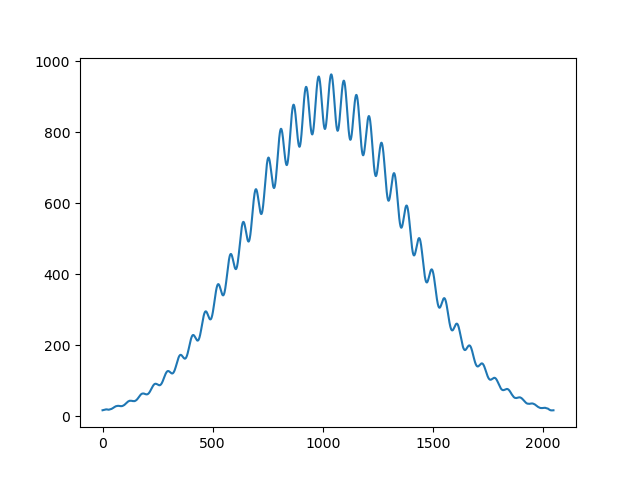
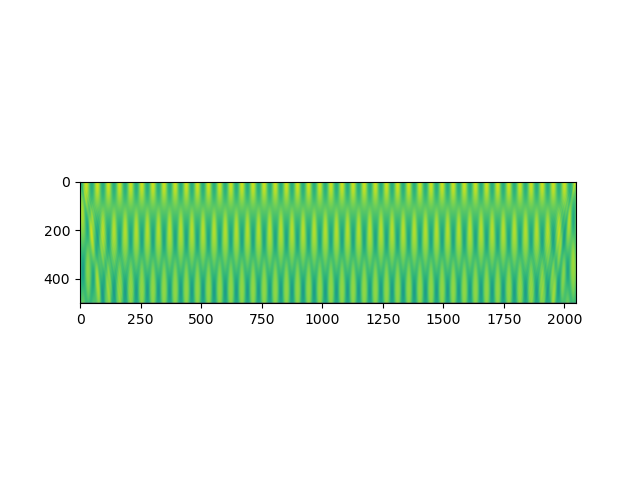
Callbacks in Bogoliubov for getting time evolution of wavepacket

diff --git a/raul/Bogoliubov.py b/raul/Bogoliubov.py
@@ -1,4 +1,5 @@
 import numpy as np
+from scipy.constants import c, epsilon_0
 import matplotlib.pyplot as plt
 from NLSE import NLSE
 
@@ -7,16 +8,18 @@ PRECISION_REAL = np.float32
 
 
 N = 2048
-n2 = -1.6e-9
+n2 = -1.6e-19
 waist = 2.23e-3
 waist2 = 70e-6
 window = 4 * waist
-puiss = 0.01
+puiss = 1.05
 Isat = 10e4  # saturation intensity in W/m^2
-L = 10e-3
-alpha = 20
-k_p = 2*np.pi/(5e-4) # perturbation k for measuring Bogoliubov dispersion
+L = 50e-3
+alpha = 2
+k_p = 2*np.pi/(4e-4) # perturbation k for measuring Bogoliubov dispersion
 amp_p = 0.1 #amplitude of perturbation
+
+
 
 
 def main():
@@ -32,17 +35,45 @@ def main():
         Isat=Isat,
         backend="GPU",
     )
-    simu.delta_z = 0.5e-4
-    E_0 = (np.exp(-(simu.XX**2 + simu.YY**2) / waist**2)*(1 + amp_p*np.sin(2*k_p*simu.XX))).astype(
+    simu.delta_z = 0.1e-4
+    #np.exp(-(simu.XX**2 + simu.YY**2) / waist**2)*
+    E_0 = ((1 + amp_p*np.sin(2*k_p*simu.XX))).astype(
         PRECISION_COMPLEX
     )
     #simu.V = -1e-4 * np.exp(-(simu.XX**2 + simu.YY**2) / waist2**2).astype(
     #    PRECISION_COMPLEX
     #)
-    A_plot = simu.out_field(E_0, L, verbose=True, plot=True, precision="single")
+
+    # parameters for callback
+    N_samples = 500
+    z_samples = np.zeros(N_samples+1) # +1 to account for the 0th step
+    E_samples = np.zeros((N_samples+1, N, N), dtype=np.complex64)
+    N_steps = int(round(L/simu.delta_z))
+    save_every = N_steps//N_samples
+
+
+
+    def callback_sample(simu: NLSE, A: np.ndarray, z: float, i: int, E_samples: np.ndarray, z_samples: np.ndarray) -> None:
+        """A callback function for the NLSE class.
+
+        Args:
+            simu (NLSE): The simulation object
+            A (np.ndarray): The field at the current step
+            z (float): The current propagation distance in meters
+            i (int): The main loop index
+            E (np.ndarray): The array of samples
+        """
+        if i % save_every == 0:
+            E_samples[i//save_every] = A.get()
+            z_samples[i//save_every] = z
+ 
+    A_plot = simu.out_field(E_0, L, callback=callback_sample, callback_args=(E_samples, z_samples), verbose=True)
+    #A_plot = simu.out_field(E_0, L, verbose=True, plot=True, precision="single")
+
+    cuts_1D = abs(E_samples[:,int(simu.NX/2),:])** 2 * 1e-4 * c / 2 * epsilon_0
 
     plt.figure()
-    plt.plot(abs(A_plot[int(simu.NX/2),:]))
+    plt.imshow(cuts_1D)
     plt.savefig("img/1Dcut.png")
 
     plt.figure()
